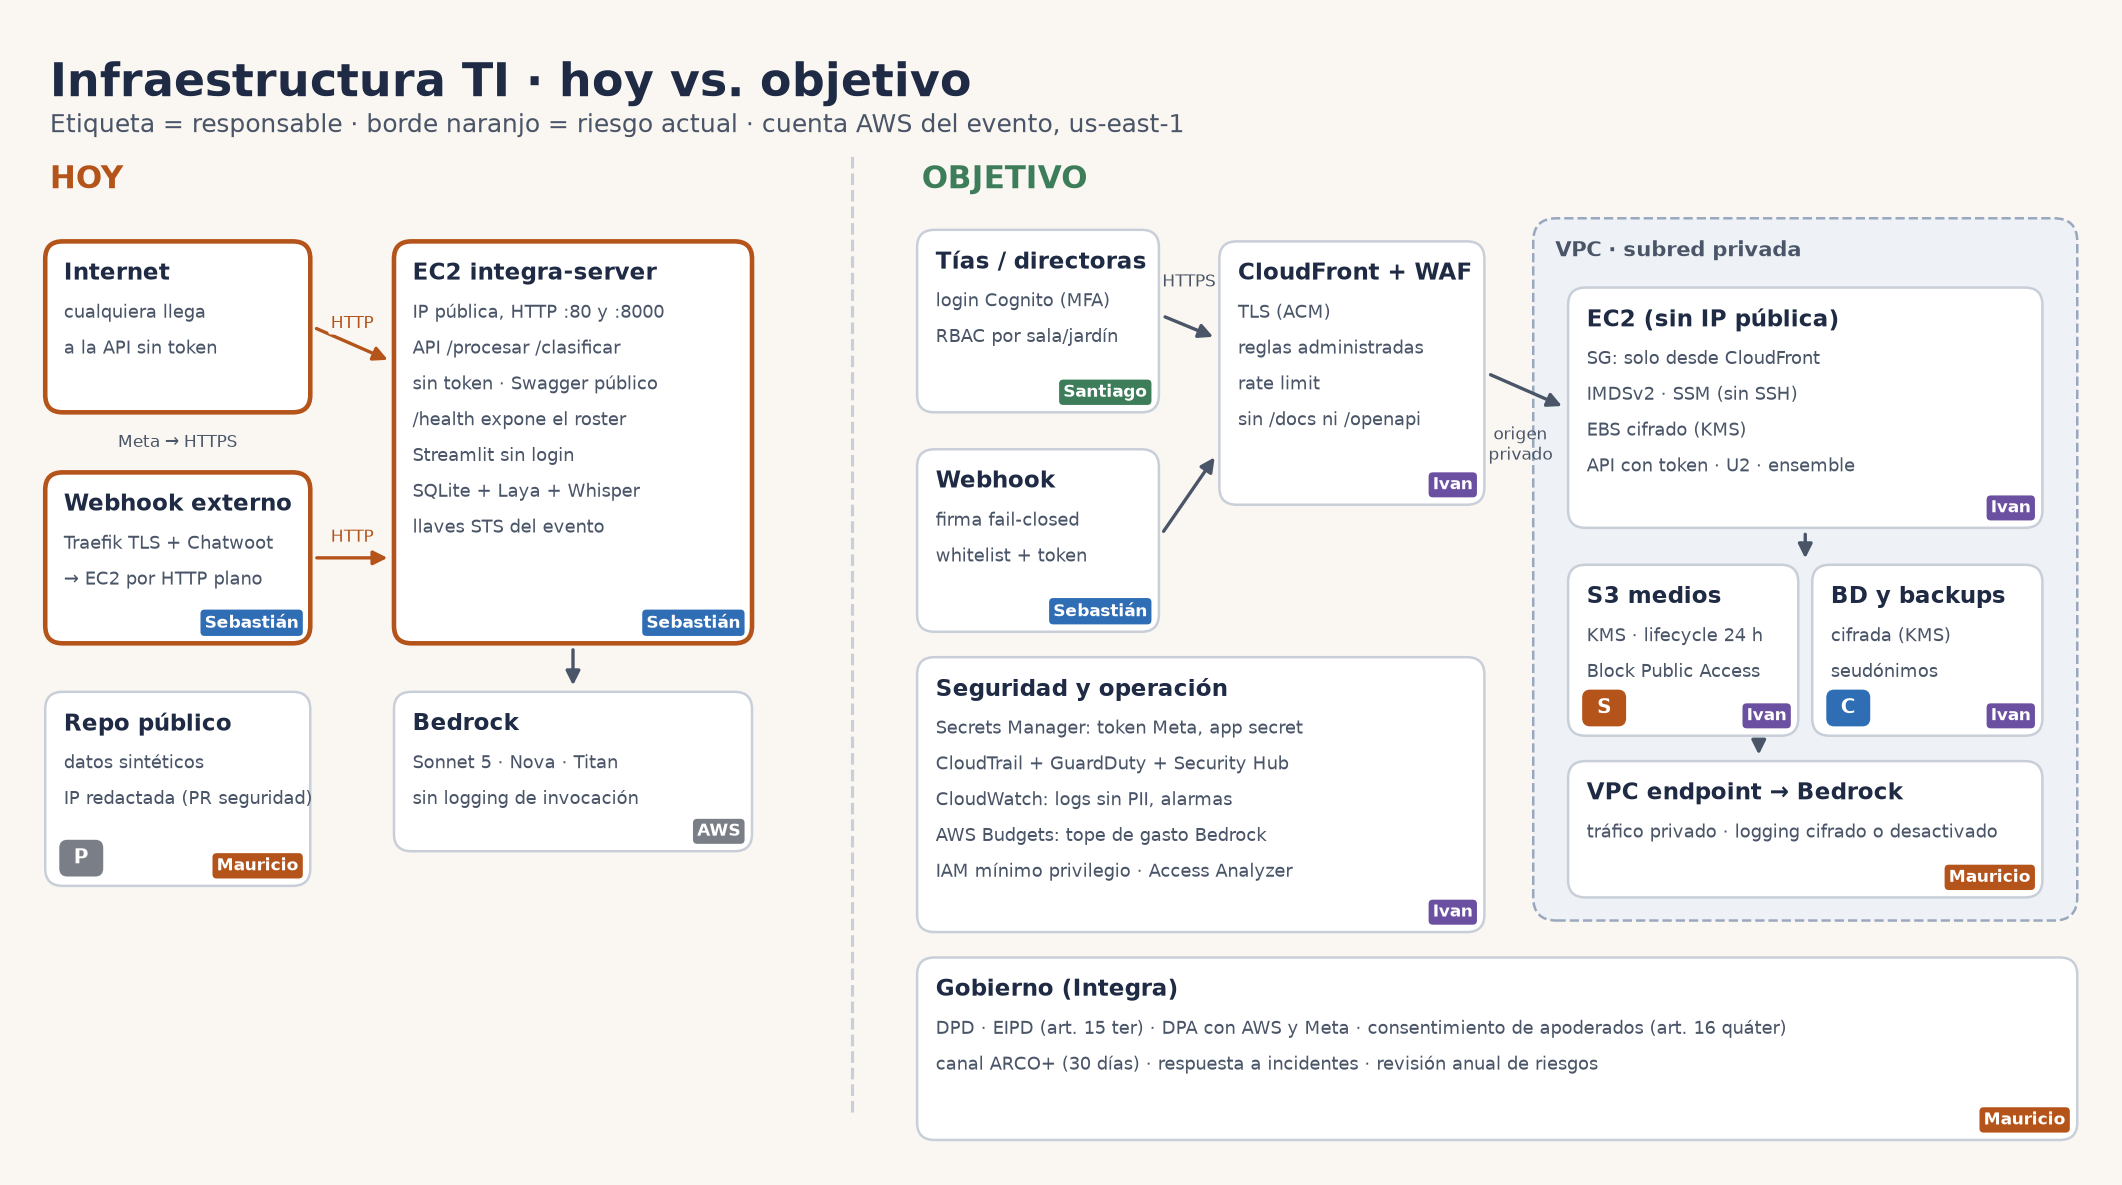
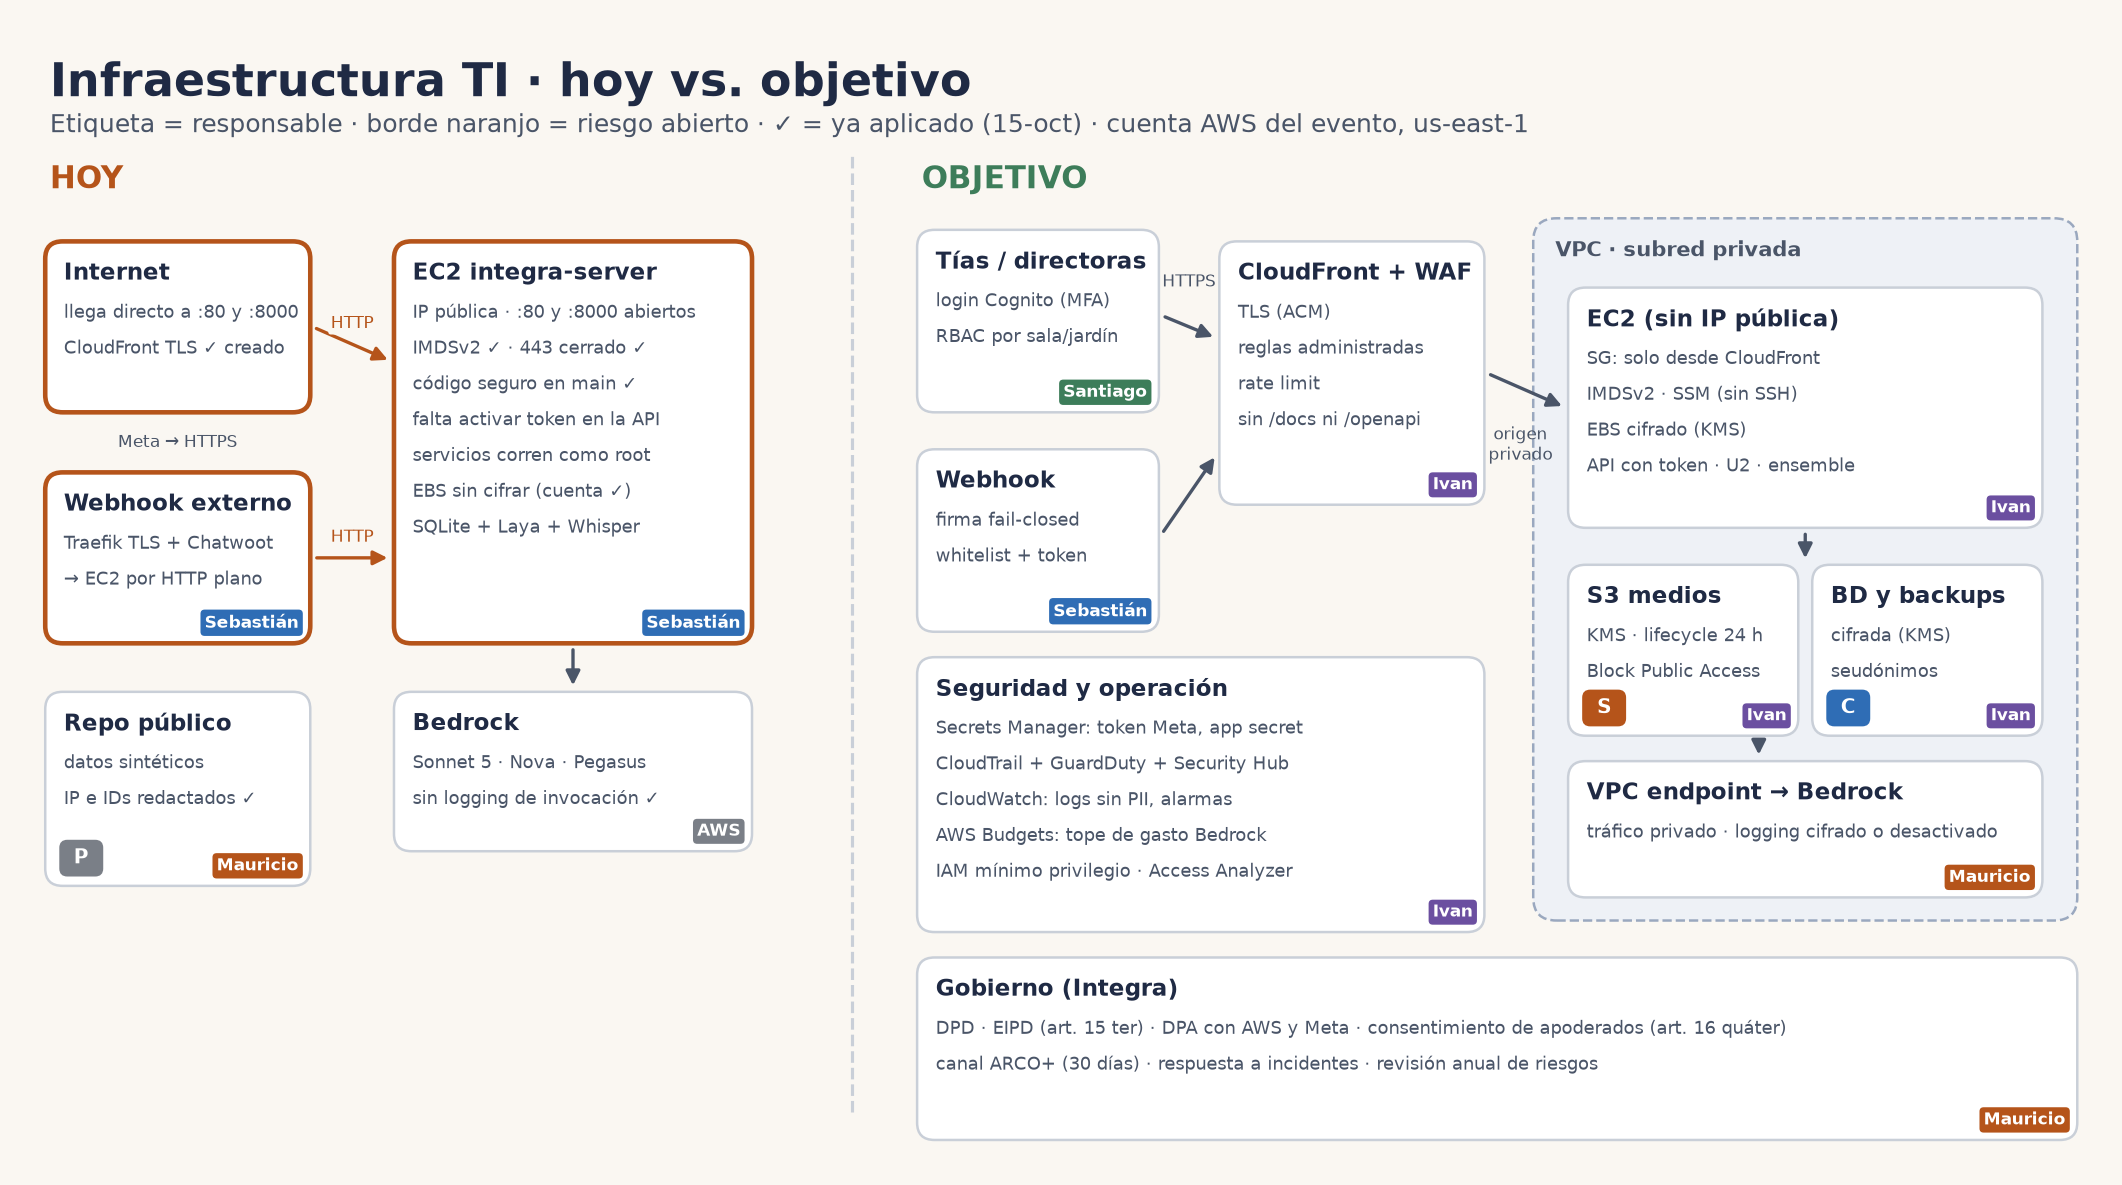
feat(seguridad): ejecución fase 0 (TLS, secretos, SG, EBS) y runbook de corte
Aplicado en la cuenta (sin interrumpir la demo):
- CloudFront con TLS delante de integra-server (dashboard :80, API :8000)
- Token de la API en Secrets Manager (integrai/api-token)
- Puerto 443 cerrado; cifrado EBS por defecto activado

Preparado para el corte coordinado:
- tools/desplegar_seguridad_ec2.sh: activa el token en la EC2 desde Secrets Manager
- tools/seguridad_aws.py: auditar / corte (80-8000 solo CloudFront) / revertir-corte
- docs/SEGURIDAD.md §3: avance y runbook; diagrama TI con el estado auditado

diff --git a/tools/seguridad_aws.py b/tools/seguridad_aws.py
@@ -1,0 +1,87 @@
+#!/usr/bin/env python3
+"""Ejecución del plan de seguridad (docs/SEGURIDAD.md §3) sobre la cuenta AWS.
+
+    python tools/seguridad_aws.py auditar          # solo lectura: estado actual
+    python tools/seguridad_aws.py corte            # 80/8000 SOLO desde CloudFront (rompe el acceso directo por IP)
+    python tools/seguridad_aws.py revertir-corte   # vuelve a abrir 80/8000 a internet (emergencia)
+
+Requiere INTEGRA_INSTANCE_ID (no se versiona el ID: repo público).
+`corte` se ejecuta SOLO cuando el webhook ya usa la URL de CloudFront (INTEGRA_BACKEND=https://...).
+"""
+from __future__ import annotations
+
+import os
+import sys
+
+import boto3
+
+REGION = os.getenv("AWS_REGION", "us-east-1")
+IID = os.getenv("INTEGRA_INSTANCE_ID", "")
+PL_CLOUDFRONT = "com.amazonaws.global.cloudfront.origin-facing"
+s = boto3.Session(region_name=REGION)
+ec2 = s.client("ec2")
+
+
+def _instancia() -> dict:
+    if not IID:
+        sys.exit("define INTEGRA_INSTANCE_ID")
+    return ec2.describe_instances(InstanceIds=[IID])["Reservations"][0]["Instances"][0]
+
+
+def _sg() -> str:
+    return _instancia()["SecurityGroups"][0]["GroupId"]
+
+
+def _prefix_list() -> str:
+    r = ec2.describe_managed_prefix_lists(Filters=[{"Name": "prefix-list-name", "Values": [PL_CLOUDFRONT]}])
+    return r["PrefixLists"][0]["PrefixListId"]
+
+
+def auditar() -> None:
+    i = _instancia()
+    ok = lambda b: "OK " if b else "-- "
+    print(ok(i["MetadataOptions"]["HttpTokens"] == "required"), "IMDSv2 obligatorio")
+    vols = ec2.describe_volumes(VolumeIds=[b["Ebs"]["VolumeId"] for b in i["BlockDeviceMappings"]])["Volumes"]
+    print(ok(all(v["Encrypted"] for v in vols)), "EBS de la instancia cifrado")
+    print(ok(ec2.get_ebs_encryption_by_default()["EbsEncryptionByDefault"]), "EBS cifrado por defecto (cuenta)")
+    sg = ec2.describe_security_groups(GroupIds=[_sg()])["SecurityGroups"][0]
+    for p in sg["IpPermissions"]:
+        abiertos = [r["CidrIp"] for r in p.get("IpRanges", []) if r["CidrIp"] == "0.0.0.0/0"]
+        print(ok(not abiertos), f"puerto {p.get('FromPort')}-{p.get('ToPort')}:",
+              [r["CidrIp"] for r in p.get("IpRanges", [])] + [x["PrefixListId"] for x in p.get("PrefixListIds", [])])
+    cf = s.client("cloudfront").list_distributions().get("DistributionList", {}).get("Items", [])
+    integrai = [d for d in cf if "IntegrAI" in d.get("Comment", "")]
+    print(ok(bool(integrai)), "CloudFront (TLS):", [f"https://{d['DomainName']} {d['Status']}" for d in integrai])
+    sm = [x["Name"] for x in s.client("secretsmanager").list_secrets()["SecretList"] if x["Name"].startswith("integrai/")]
+    print(ok(bool(sm)), "Secretos en Secrets Manager:", sm)
+
+
+def corte() -> None:
+    """Una sola regla 80-8000 desde el prefix list de CloudFront (dos reglas superan la cuota de 60 del SG)."""
+    sg, pl = _sg(), _prefix_list()
+    ec2.authorize_security_group_ingress(GroupId=sg, IpPermissions=[{
+        "IpProtocol": "tcp", "FromPort": 80, "ToPort": 8000,
+        "PrefixListIds": [{"PrefixListId": pl, "Description": "solo CloudFront (IntegrAI)"}]}])
+    for puerto in (80, 8000):
+        try:
+            ec2.revoke_security_group_ingress(GroupId=sg, IpPermissions=[{
+                "IpProtocol": "tcp", "FromPort": puerto, "ToPort": puerto, "IpRanges": [{"CidrIp": "0.0.0.0/0"}]}])
+        except ec2.exceptions.ClientError as e:
+            print(f"puerto {puerto}: {e.response['Error']['Code']}")
+    print("corte aplicado: 80 y 8000 solo accesibles vía CloudFront")
+
+
+def revertir_corte() -> None:
+    sg = _sg()
+    for puerto in (80, 8000):
+        try:
+            ec2.authorize_security_group_ingress(GroupId=sg, IpPermissions=[{
+                "IpProtocol": "tcp", "FromPort": puerto, "ToPort": puerto, "IpRanges": [{"CidrIp": "0.0.0.0/0"}]}])
+        except ec2.exceptions.ClientError as e:
+            print(f"puerto {puerto}: {e.response['Error']['Code']}")
+    print("revertido: 80 y 8000 abiertos a internet")
+
+
+if __name__ == "__main__":
+    {"auditar": auditar, "corte": corte, "revertir-corte": revertir_corte}.get(
+        (sys.argv[1:] or ["auditar"])[0], lambda: sys.exit(__doc__))()

diff --git a/tools/diagramas.py b/tools/diagramas.py
@@ -97,16 +97,17 @@ def infra_datos():
 
 def infra_ti():
     fig, ax = lienzo("Infraestructura TI · hoy vs. objetivo",
-                     "Etiqueta = responsable · borde naranjo = riesgo actual · cuenta AWS del evento, us-east-1")
-    # --- HOY ---
+                     "Etiqueta = responsable · borde naranjo = riesgo abierto · ✓ = ya aplicado (15-oct) · cuenta AWS del evento, us-east-1")
+    # --- HOY (auditado por SSM el 15-oct) ---
     ax.text(3, 85, "HOY", fontsize=15, fontweight="bold", color="#B5541A")
-    caja(ax, 3, 66, 22, 14, "Internet", ["cualquiera llega", "a la API sin token"], alerta=True)
+    caja(ax, 3, 66, 22, 14, "Internet", ["llega directo a :80 y :8000", "CloudFront TLS ✓ creado"], alerta=True)
     caja(ax, 3, 46, 22, 14, "Webhook externo", ["Traefik TLS + Chatwoot", "→ EC2 por HTTP plano"], alerta=True, dueno="Sebastián")
-    caja(ax, 33, 46, 30, 34, "EC2 integra-server", ["IP pública, HTTP :80 y :8000", "API /procesar /clasificar", "sin token · Swagger público",
-                                                    "/health expone el roster", "Streamlit sin login", "SQLite + Laya + Whisper",
-                                                    "llaves STS del evento"], alerta=True, dueno="Sebastián")
-    caja(ax, 33, 28, 30, 13, "Bedrock", ["Sonnet 5 · Nova · Titan", "sin logging de invocación"], dueno="AWS")
-    caja(ax, 3, 25, 22, 16, "Repo público", ["datos sintéticos", "IP redactada (PR seguridad)"], clase="P", dueno="Mauricio")
+    caja(ax, 33, 46, 30, 34, "EC2 integra-server", ["IP pública · :80 y :8000 abiertos", "IMDSv2 ✓ · 443 cerrado ✓",
+                                                    "código seguro en main ✓", "falta activar token en la API",
+                                                    "servicios corren como root", "EBS sin cifrar (cuenta ✓)",
+                                                    "SQLite + Laya + Whisper"], alerta=True, dueno="Sebastián")
+    caja(ax, 33, 28, 30, 13, "Bedrock", ["Sonnet 5 · Nova · Pegasus", "sin logging de invocación ✓"], dueno="AWS")
+    caja(ax, 3, 25, 22, 16, "Repo público", ["datos sintéticos", "IP e IDs redactados ✓"], clase="P", dueno="Mauricio")
     flecha(ax, (25.6, 73), (32.4, 70), "HTTP", color="#B5541A")
     flecha(ax, (25.6, 53), (32.4, 53), "HTTP", color="#B5541A")
     ax.text(14, 62.6, "Meta → HTTPS", fontsize=8, color=GRIS, ha="center")

diff --git a/docs/SEGURIDAD.md b/docs/SEGURIDAD.md
@@ -38,8 +38,8 @@ Tres revisiones en paralelo (código del repo, infraestructura vista desde fuera
 |---|---|---|---|
 | H1 | Webhook aceptaba POST **sin firma** si faltaba `WA_APP_SECRET` (fail-open) | Crítica | ✅ Corregido: fail-closed (`webhook/server.py`) |
 | H2 | **Sin whitelist**: cualquier número registraba observaciones en el jardín | Crítica | ✅ Corregido: `WA_WHITELIST`; los desconocidos se descartan sin respuesta |
-| H3 | API de decisión **sin autenticación**, Swagger público, `/health` con datos del jardín | Crítica | ✅ Corregido en código: `INTEGRA_API_TOKEN`, docs apagados, `/health` mínimo. **Falta desplegar** |
-| H4 | **Sin HTTPS** en la EC2 (443 cerrado). El webhook externo reenvía medios de niños por **HTTP plano** | Crítica | ⏳ Ivan: CloudFront o ALB con TLS (F0) |
+| H3 | API de decisión **sin autenticación**, Swagger público, `/health` con datos del jardín | Crítica | ✅ Código en `main` (PR #6). ✅ Token generado en Secrets Manager (`integrai/api-token`). ⏳ **Activarlo en la EC2** con `tools/desplegar_seguridad_ec2.sh` (corte coordinado, §3.1) |
+| H4 | **Sin HTTPS** en la EC2. El webhook externo reenvía medios de niños por **HTTP plano** | Crítica | ✅ **CloudFront con TLS creado** delante de la EC2 (dashboard → :80, API → :8000, sin caché, cabeceras de seguridad). ⏳ El webhook debe usar la URL `https://` y luego cerrar el acceso directo por IP (`tools/seguridad_aws.py corte`) |
 | H5 | IP, ID de instancia, SG y nombre de la llave publicados en el repo público | Alta | ✅ Redactados (siguen en el historial; la instancia es temporal) |
 | H6 | `GET /procesar` y `bench/*` ponían la nota del niño en la URL | Alta | ✅ GET eliminado; bench usa `INTEGRA_API_URL` |
 | H7 | Lectura arbitraria de archivos vía `Entrada.ref` (path traversal) | Alta | ✅ `src/seguridad/archivos.ruta_segura` |
@@ -57,7 +57,35 @@ Tres revisiones en paralelo (código del repo, infraestructura vista desde fuera
 | H19 | Dependencias sin versión fija (`>=`), sin `pip-audit` | Baja | ⏳ CI |
 | H20 | `tools/ssm_push.py` arma comandos shell con la ruta remota | Baja | Herramienta interna; no exponer |
 
-## 3. Plan de despliegue por fases
+## 3. Avance de la ejecución
+
+Actualizado el 15-oct-2026. Se ejecutó primero todo lo que **no interrumpe la demo**.
+
+| # | Medida | Estado | Cómo |
+|---|---|---|---|
+| 1 | Código seguro (firma fail-closed, whitelist, token, U2, video visual) | ✅ En `main` (PR #6) + video/Pegasus en el PR de esta rama | — |
+| 2 | IP, ID de instancia y nombre de la llave fuera del repo | ✅ | PR #6 |
+| 3 | IMDSv2 obligatorio | ✅ (ya estaba) | — |
+| 4 | Puerto 443 cerrado (no escuchaba nada) | ✅ Aplicado | Security group |
+| 5 | Cifrado EBS por defecto en la cuenta | ✅ Aplicado | Discos nuevos cifrados; el actual sigue sin cifrar (requiere detener la instancia) |
+| 6 | Token de la API en **Secrets Manager** (`integrai/api-token`) | ✅ Creado | Nadie lo ve en texto; la EC2 lo lee al desplegar |
+| 7 | **CloudFront con TLS** delante de la EC2 | ✅ Creado | Dashboard → :80, `/procesar*`, `/clasificar`, `/health` → :8000. Sin caché, cabeceras de seguridad (HSTS) |
+| 8 | Activar el token en la API | ⏳ Corte coordinado | `tools/desplegar_seguridad_ec2.sh` |
+| 9 | Webhook → CloudFront (`https`) + `WA_APP_SECRET` + `WA_WHITELIST` + token | ⏳ Sebastián | Variables del webhook |
+| 10 | Cerrar 80/8000 a internet (solo CloudFront) | ⏳ Después de 9 | `tools/seguridad_aws.py corte` (revertible con `revertir-corte`) |
+| 11 | Servicios sin root, cifrar el EBS actual | ⏳ Después de la demo | Requiere reiniciar o detener la instancia |
+
+### 3.1 Corte coordinado (unos 10 minutos, con Sebastián conectado)
+
+1. **EC2:** desplegar `main` en `/opt/integra` y ejecutar `sudo bash tools/desplegar_seguridad_ec2.sh`. El script verifica `/health` 200, `/docs` 404 y `/clasificar` sin token 401.
+2. **Webhook (Sebastián):** `INTEGRA_BACKEND=https://<dominio-cloudfront>`, `INTEGRA_API_TOKEN=<valor de integrai/api-token>`, `WA_APP_SECRET`, `WA_WHITELIST=<teléfonos del equipo>`. Reiniciar el contenedor.
+3. **Prueba:** mandar un texto por WhatsApp desde un número autorizado (debe responder) y desde uno no autorizado (no debe responder).
+4. **Cerrar el acceso directo:** `INTEGRA_INSTANCE_ID=<id> python tools/seguridad_aws.py corte`. A partir de aquí, el dashboard solo se abre por la URL de CloudFront.
+5. **Si algo falla:** `python tools/seguridad_aws.py revertir-corte` y borrar `/etc/systemd/system/integra-webapi.service.d/seguridad.conf` + `systemctl daemon-reload && systemctl restart integra-webapi`.
+
+El dominio de CloudFront y los valores de los secretos **no se escriben en el repo**: se comparten por el canal interno del equipo.
+
+## 4. Plan de despliegue por fases
 
 ### F0 — Antes de la demo (cierre 16-oct, 10:15)
 
@@ -102,7 +130,7 @@ Tres revisiones en paralelo (código del repo, infraestructura vista desde fuera
 | Evaluación de sesgo (por sexo y región) y del set "contra la edad" en cada versión del modelo | Mauricio |
 | Revisión anual de riesgos y de este documento | Mauricio |
 
-## 4. Controles ya implementados (esta rama)
+## 5. Controles implementados en el código
 
 | Archivo | Control |
 |---|---|
@@ -112,8 +140,10 @@ Tres revisiones en paralelo (código del repo, infraestructura vista desde fuera
 | `src/seguridad/archivos.py` | `ruta_segura` (confinada a `DIR_MEDIOS`) y `validar_medio` (16 MB + magic bytes) |
 | `src/multimodal/*` | Validación previa de cada medio, nota delimitada contra prompt injection, `nino_mencionado` fuera del `detalle`, errores genéricos |
 | `tests/test_seguridad.py`, `tests/test_webhook_whatsapp.py` | 9 tests: firma, whitelist, PII en logs, path traversal, magic bytes y tamaño |
+| `tools/seguridad_aws.py` | `auditar` (estado), `corte` / `revertir-corte` (80/8000 solo desde CloudFront) |
+| `tools/desplegar_seguridad_ec2.sh` | Activa el token desde Secrets Manager en la EC2 y lo verifica |
 
-## 5. Variables de entorno de seguridad
+## 6. Variables de entorno de seguridad
 
 | Variable | Dónde | Valor |
 |---|---|---|
@@ -126,8 +156,9 @@ Tres revisiones en paralelo (código del repo, infraestructura vista desde fuera
 | `U2_CONDUCTAS` | EC2 | `1` (por defecto) |
 | `DIR_MEDIOS`, `MAX_MEDIA_BYTES` | EC2 | Directorio de medios temporales y tope |
 
-## 6. Verificación
+## 7. Verificación
 
-- `pytest tests/` → 15 tests en verde.
+- `pytest tests/` → 16 tests en verde.
+- `INTEGRA_INSTANCE_ID=<id> python tools/seguridad_aws.py auditar` → estado de cada control en la cuenta.
 - Después de desplegar: `curl https://<backend>/docs` → 404. `curl -X POST https://<backend>/clasificar?texto=x` sin `X-Api-Key` → 401. Un mensaje desde un número fuera de la whitelist → sin respuesta. Un POST al webhook sin firma → 403.
 - Con credenciales AWS renovadas: repetir la auditoría interna (SG, IMDSv2, rol IAM, CloudTrail, GuardDuty, logging de Bedrock) y actualizar la tabla de hallazgos.
